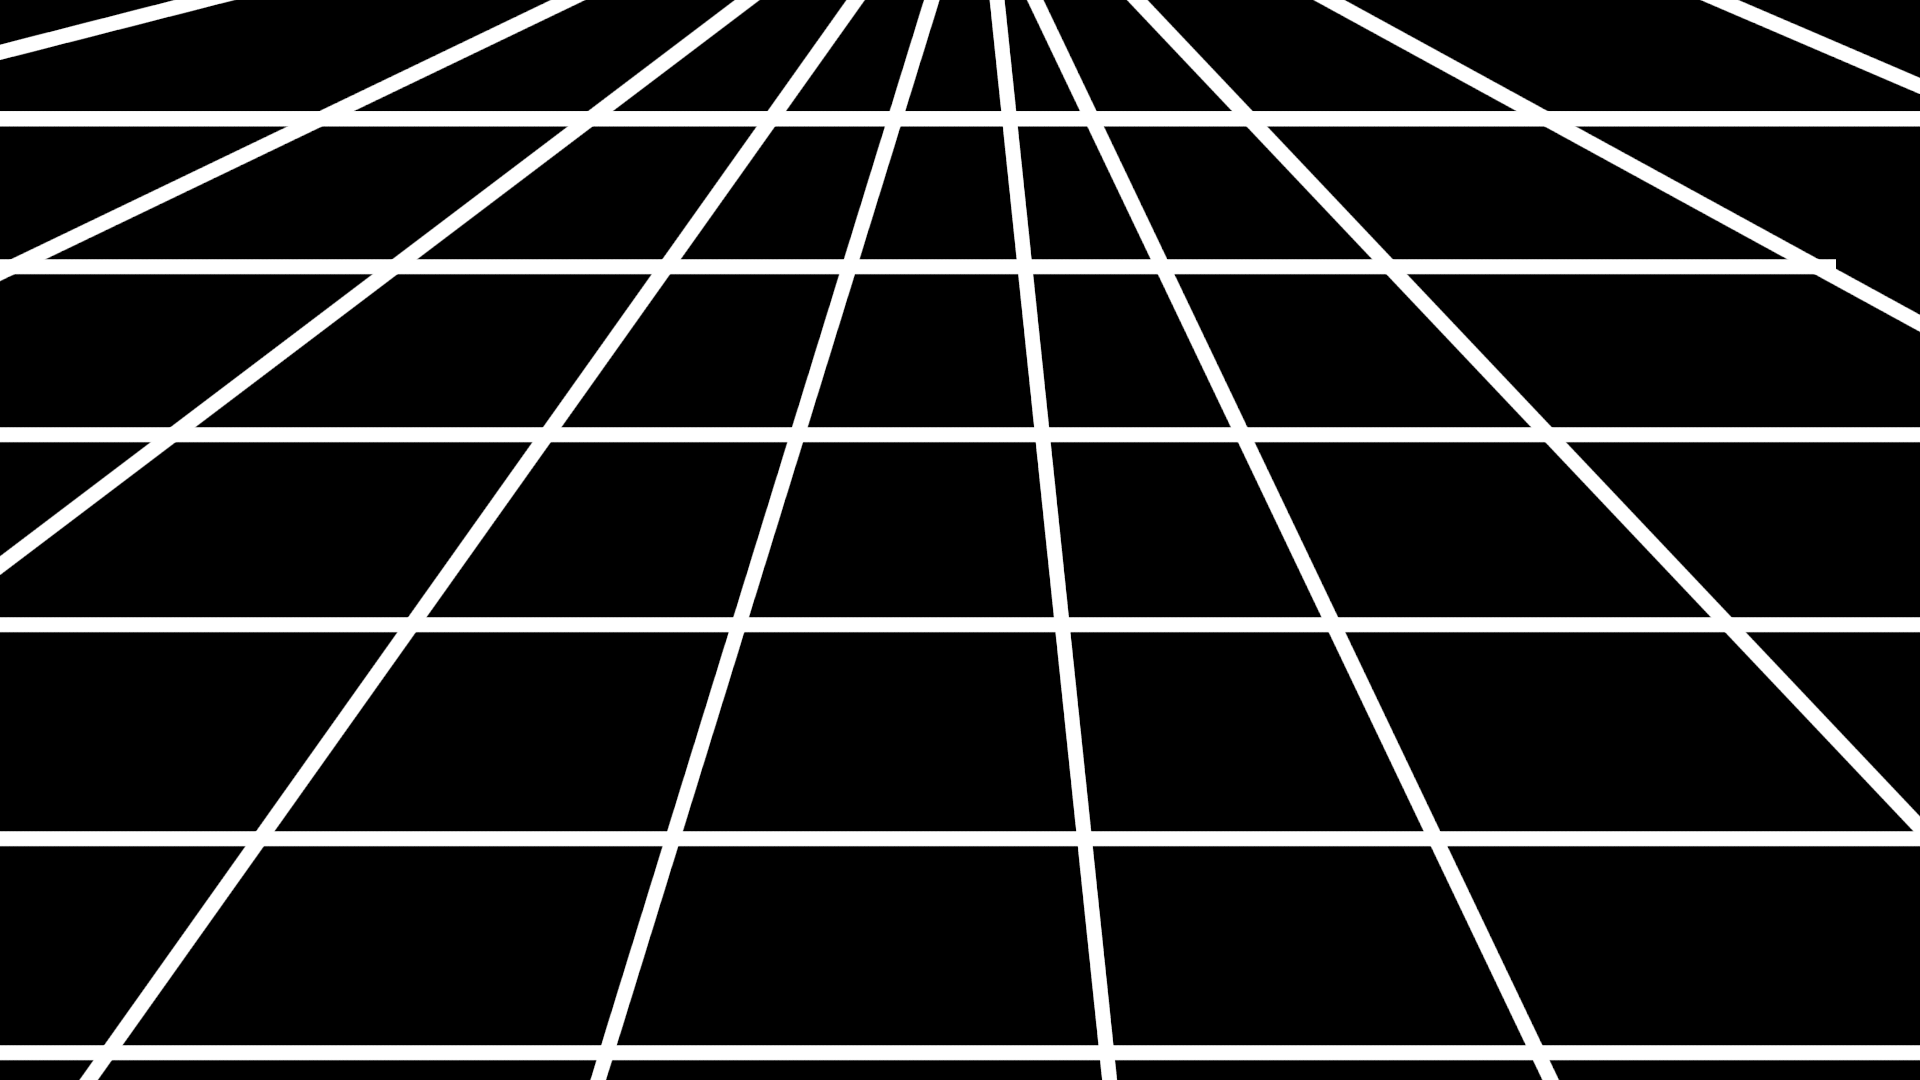
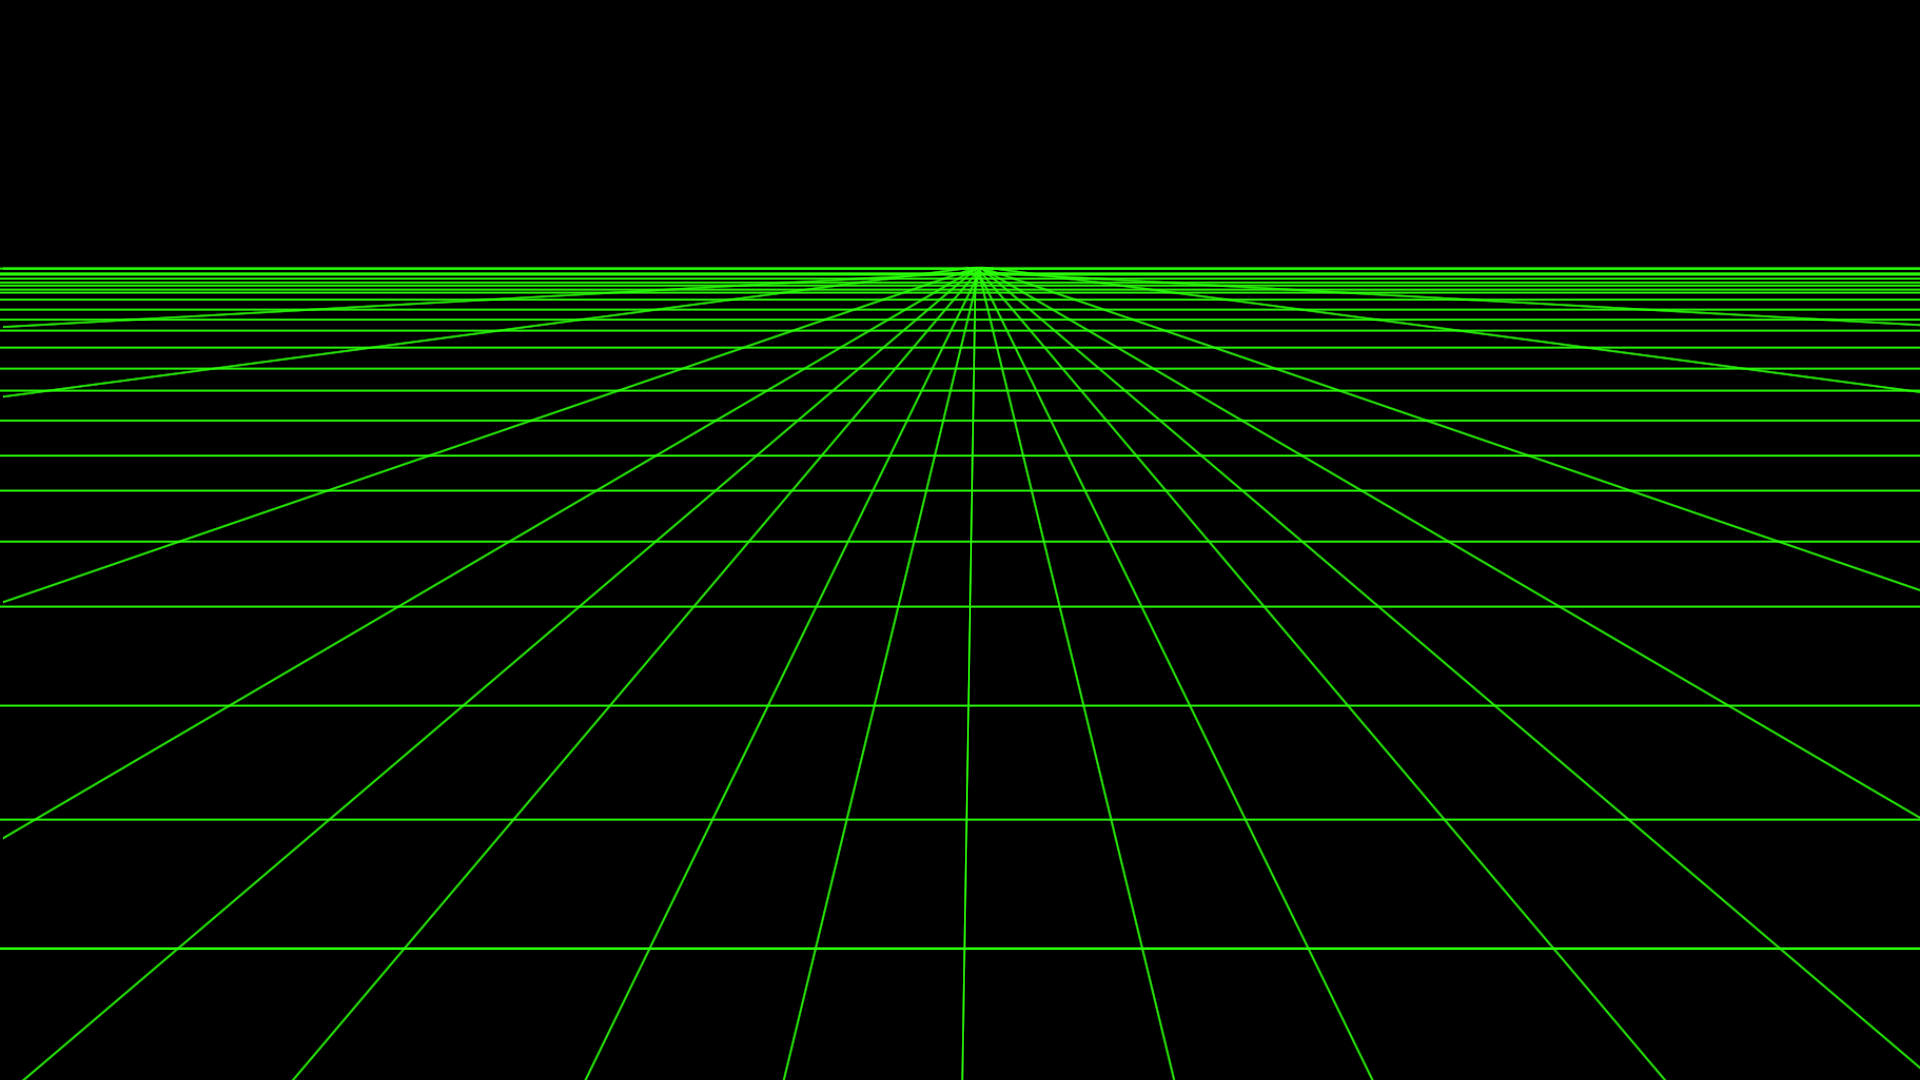
stuff

diff --git a/src/popup.ts b/src/popup.ts
@@ -1,8 +1,10 @@
 import { pageOffsetY, screenHeight, screenWidth } from "./constants";
-import { obstacles } from "./game";
+import { obstacles, playerData } from "./game";
 
 export const tickers = new Set<(delta: number) => void>();
 export const waiters = new Set<{ time: number; cb: () => void }>();
+
+let timeT = Date.now();
 
 export const wait = (time: number) => new Promise(res => waiters.add({ time: Date.now() + time, cb: () => res(null) }));
 
@@ -26,7 +28,7 @@ export const popupManager = {
 		return new Promise(res => {
 			/*if (popup.win.document.readyState == "complete") res(popup);
 			else popup.win.addEventListener("load", () => res(popup));*/
-			res(popup)
+			res(popup);
 		});
 	},
 	destroy(popup: Popup) {
@@ -44,10 +46,12 @@ let lastTick = Date.now();
 
 const globalTicker = () => {
 	const delta = Date.now() - lastTick;
+	timeT += delta;
 	if (delta < 50) return;
 	lastTick = Date.now();
 	for (const ticker of tickers) ticker(delta);
 	for (const popup of popupManager.popups) popup.runTick(delta);
+	if (playerData.health <= 0) return;
 	for (const waiter of waiters)
 		if (Date.now() > waiter.time) {
 			waiter.cb();
@@ -58,7 +62,11 @@ export const setup = () => {
 	setInterval(() => globalTicker(), 50);
 };
 const createPopup = (x: number, y: number, width: number, height: number) => {
-	const win = open("about:blank", "_blank", `popup,toolbar=no,menubar=no,left=${x},top=${y},width=${width},height=${height}`);
+	const win = open(
+		"about:blank",
+		"_blank",
+		`popup,toolbar=no,resizable=no,resizeable=no,resize=no,menubar=no,left=${x},top=${y},width=${width},height=${height}`
+	);
 	if (!win) throw new Error("Popups not allowed");
 	win.document.documentElement.innerHTML = `
 	<body?></body?>`;
@@ -100,12 +108,32 @@ export class Popup {
 		this.setupWindow();
 	}
 	obstacle() {
+		const makeAd = () => {
+			const ads = [...document.getElementsByClassName("ad")] as HTMLTemplateElement[];
+			this.win.document.body.append(ads[Math.floor(Math.random() * ads.length)].content.cloneNode(true));
+			const colors = ["red", "yellow", "blue", "green", "purple", "white", "black"];
+			const first = colors[Math.floor(Math.random() * colors.length)];
+			const second = colors.filter(x => x !== first)[Math.floor(Math.random() * (colors.length - 1))];
+			this.win.document.body.style.color = first;
+			this.win.document.body.style.backgroundColor = second;
+			this.win.document.body.style.fontFamily = "sans-serif";
+			this.win.document.body.style.fontSize = "1.2em";
+			const style = document.createElement("style");
+			style.innerHTML = "img { width: 100vw; height: auto }";
+			this.win.document.head.appendChild(style);
+		};
+		const old = this.#onSetup;
+		this.#onSetup = () => {
+			old?.();
+			makeAd();
+		};
+		if (this.win.document.readyState === "complete") makeAd();
 		obstacles.add(this);
 		return this;
 	}
 	setup(cb: (popup: Popup) => void) {
 		this.#onSetup = cb.bind(this, this);
-		cb(this);
+		if (this.win.document.readyState === "complete") cb(this);
 		return this;
 	}
 	tick(cb: (popup: Popup, delta: number) => void) {
@@ -126,14 +154,18 @@ export class Popup {
 			this.win = cached;
 		} else this.win = createPopup(this.#x, this.#y, this.#width, this.#height);
 		this.interval = this.win.setInterval(() => globalTicker(), 50);
-		this.win.document.body.style.margin = "0";
-		this.win.document.body.style.padding = "0";
-		if (this.options.showBackground) {
-			this.win.document.body.style.backgroundImage = `url("/img/background.png")`;
-			this.win.document.body.style.backgroundSize = `${screenWidth}px ${screenHeight}px`;
-			this.win.document.body.style.backgroundRepeat = `no-repeat`;
-			console.log(this.win.document.documentElement.innerHTML)
-		}
+		this.win.onload = () => {
+			this.#onSetup?.();
+			this.win.document.body.style.margin = "0";
+			this.win.document.body.style.padding = "0";
+			if (this.options.showBackground) {
+				this.win.document.body.style.backgroundImage = `url("/img/background.png")`;
+				this.win.document.body.style.backgroundSize = `${screenWidth}px ${screenHeight}px`;
+				this.win.document.body.style.backgroundRepeat = `no-repeat`;
+				console.log(this.win.document.documentElement.innerHTML);
+			}
+		};
+		if (this.win.document.readyState === "complete") this.win.onload(null as any);
 		createTempTicker((t, stop) => {
 			this.move(this.#x, this.#y);
 			if (t > 200) stop();
@@ -189,7 +221,7 @@ export class Popup {
 		}
 		this.#onTick?.(delta);
 		if (this.options.showBackground) {
-			this.win.document.body.style.backgroundPosition = `${-this.x - screenX - 7}px ${-this.y - pageOffsetY}px`;
+			this.win.document.body.style.backgroundPosition = `${-this.x - screenX - 13}px ${-this.y - pageOffsetY + 42}px`;
 		}
 		if (this.options.fixedPosition) {
 			if (Math.abs(this.win.screenX - this.#x) > 2 || Math.abs(this.win.screenY - this.#y) > 2)

diff --git a/src/battle/battle1.ts b/src/battle/battle1.ts
@@ -2,32 +2,38 @@ import { createTempTicker, popupManager, wait } from "../popup";
 import { lerp } from "../util";
 
 export const startBattle1 = async () => {
+	await sweepAttack();
+	await wait(500);
+	await spikesAttack();
+	await wait(500);
 	await horAttack();
 	await wait(500);
 	await vertAttack();
 };
 
-const horAttack = async() => {
+const horAttack = async () => {
 	const hors = await Promise.all(
 		[...Array(2)].map(async (_, i) =>
-			(await popupManager.create(0, screen.height / 2 * i, 100, screen.height / 2, { showBackground: false })).obstacle()
+			(
+				await popupManager.create(0, (screen.height / 2) * i, 100, screen.height / 2, { showBackground: false })
+			).obstacle()
 		)
 	);
-	for (let i = 0; i < 4; i++) {
+	await wait(500);
+	for (let i = 0; i < 6; i++) {
 		await createTempTicker((t, stop) => {
 			for (let j = 0; j < 2; j++) {
 				hors[j].width = lerp(t / 1000, hors[j].width, i % 2 === j ? screen.width : 10);
 			}
 			if (t > 1000) stop();
 		});
+		await createTempTicker((t, stop) => {
+			for (let j = 0; j < 2; j++) hors[j].width = lerp(t / 1000, hors[j].width, 100);
+			if (t > 1000) stop();
+		});
 	}
-	await createTempTicker((t, stop) => {
-		for (let j = 0; j < 2; j++)
-			hors[j].width = lerp(t / 1000, hors[j].width, 100)
-		if (t > 1000) stop();
-	});
 	for (const j of hors) popupManager.destroy(j);
-}
+};
 
 const vertAttack = async () => {
 	const verts = await Promise.all(
@@ -35,6 +41,7 @@ const vertAttack = async () => {
 			(await popupManager.create((screen.width / 4) * i, 0, screen.width / 4, 100, { showBackground: false })).obstacle()
 		)
 	);
+	await wait(500);
 	let lastTarget = -1;
 	for (let i = 0; i < 10; i++) {
 		let target = -1;
@@ -49,9 +56,64 @@ const vertAttack = async () => {
 		});
 	}
 	await createTempTicker((t, stop) => {
-		for (let j = 0; j < 4; j++)
-			verts[j].height = lerp(t / 1000, verts[j].height, 100);
+		for (let j = 0; j < 4; j++) verts[j].height = lerp(t / 1000, verts[j].height, 100);
 		if (t > 1000) stop();
 	});
 	for (const vert of verts) popupManager.destroy(vert);
+};
+
+const spikesAttack = async () => {
+	const left = (await popupManager.create(0, 0, screen.width / 2, 100, { showBackground: false })).obstacle();
+	const right = (
+		await popupManager.create(screen.width / 2, screen.height - 100, screen.width / 2, 100, { showBackground: false })
+	).obstacle();
+	await wait(500);
+	for (let i = 0; i < 3; i++) {
+		await createTempTicker((t, stop) => {
+			left.y = lerp(t / 1500, 0, screen.height - 100);
+			right.y = lerp(t / 1500, screen.height - 100, 0);
+			if (t > 1500) stop();
+		});
+		await createTempTicker((t, stop) => {
+			right.y = lerp(t / 1500, 0, screen.height - 100);
+			left.y = lerp(t / 1500, screen.height - 100, 0);
+			if (t > 1500) stop();
+		});
+	}
+
+	popupManager.destroy(left);
+	popupManager.destroy(right);
+};
+
+const sweepAttack = async () => {
+	const topLeft = (await popupManager.create(0, 0, screen.width / 2, screen.height / 2, { showBackground: false })).obstacle();
+	const bottomRight = (
+		await popupManager.create(screen.width / 2, screen.height / 2, screen.width / 2, screen.height / 2, { showBackground: false })
+	).obstacle();
+	await wait(500);
+	for (let i = 0; i < 2; i++) {
+		await createTempTicker((t, stop) => {
+			topLeft.x = lerp(t / 1000, 0, screen.width / 2,)
+			bottomRight.x = lerp(t / 1000, screen.width / 2, 0)
+			if (t > 1000) stop();
+		});
+		await createTempTicker((t, stop) => {
+			topLeft.y = lerp(t / 1000, 0, screen.height / 2)
+			bottomRight.y = lerp(t / 1000, screen.height / 2, 0)
+			if (t > 1000) stop();
+		});
+		await createTempTicker((t, stop) => {
+			bottomRight.x = lerp(t / 1000, 0, screen.width / 2,)
+			topLeft.x = lerp(t / 1000, screen.width / 2, 0)
+			if (t > 1000) stop();
+		});
+		await createTempTicker((t, stop) => {
+			bottomRight.y = lerp(t / 1000, 0, screen.height / 2)
+			topLeft.y = lerp(t / 1000, screen.height / 2, 0)
+			if (t > 1000) stop();
+		});
+	}
+
+	popupManager.destroy(topLeft);
+	popupManager.destroy(bottomRight);
 };

diff --git a/index.html b/index.html
@@ -9,9 +9,29 @@
 	<body>
 		<div id="app"></div>
 		<script type="module" src="/src/main.ts"></script>
-		<button id="start">Start</button>
-		<button id="end">End</button>
-		<button id="b1">1</button>
-		<button id="cache">cache</button>
+		<h1>Adscape</h1>
+		<div class="main">
+			<button id="b1">Play</button>
+			<button id="cache">Preload Windows</button>
+			<button id="end">Panic</button>
+		</div>
+		<template class="ad">
+			<h1>Free Car!</h1>
+			<p>You are our 10000th visitor!! Click <a href="/">HERE</a> for a free car!</p>
+			<img
+				src="https://upload.wikimedia.org/wikipedia/commons/thumb/a/a4/2019_Toyota_Corolla_Icon_Tech_VVT-i_Hybrid_1.8.jpg/1200px-2019_Toyota_Corolla_Icon_Tech_VVT-i_Hybrid_1.8.jpg"
+			/>
+		</template>
+		<template class="ad">
+			<h1>Why YOU should download our APP!</h1>
+			<p>
+				🌟 Hey there! 🌟 You won’t believe the incredible opportunity waiting for you! Our revolutionary app is taking
+				the world by storm, and you’re one of the lucky few chosen to access it early! 🎉 Just download it now to unlock
+				exclusive features and benefits that others can only dream about. Trust us, this is your chance to be part of
+				something BIG! Don’t miss out—tap the link below and join the millions who are already raving about their
+				success! 🚀 Remember, this offer is limited, so act fast! Your future self will thank you! 💰✨
+			</p>
+			<img src="https://i.redd.it/hlz49ies6m841.png" />
+		</template>
 	</body>
 </html>

diff --git a/src/battle/ui.ts b/src/battle/ui.ts
@@ -5,12 +5,12 @@ import { collides } from "../util";
 export const setupUI = async() => {
 	const playerImage = document.createElement("img");
 	playerImage.src = `/img/player.png`;
-	playerImage.width = 170;
-	playerImage.height = 170;
+	playerImage.width = 180;
+	playerImage.height = 180;
 	let lastCollision = Date.now();
 	let shaking = 0;
 	const player = (await popupManager
-		.create(screen.width / 2 - 185 / 2, screen.height / 2 - 250 / 2, 185, 250, { fixedPosition: false }))
+		.create(screen.width / 2 - 200 / 2, screen.height / 2 - 270 / 2, 200, 260, { fixedPosition: false }))
 		.setup(popup => popup.win.document.body.append(playerImage))
 		.tick(async popup => {
 			if (playerData.health <= 0) {
@@ -28,7 +28,7 @@ export const setupUI = async() => {
 						location.reload();
 					});
 			}
-			if (shaking > 0) {
+			if (false && shaking > 0) {
 				shaking--;
 				popup.move(popup.x + (shaking % 2 === 0 ? -10 : 10), popup.y);
 			}

diff --git a/src/style.scss b/src/style.scss
@@ -6,4 +6,37 @@ body {
 	margin: 0;
 	background-color: #000000;
 	background-image: url("/img/background.png");
+	color: white;
+	padding: 1em;
+}
+h1 {
+	text-align: center;
+	font-size: 8em;
+	font-family: Bahnschrift, "DIN Alternate", "Franklin Gothic Medium", "Nimbus Sans Narrow", sans-serif-condensed, sans-serif;
+	text-shadow: 16px 16px 0px black;
+	margin: 0;
+}
+.main {
+	display: flex;
+	flex-direction: column;
+	align-items: center;
+	gap: 1em;
+	margin-top: 1em;
+}
+button {
+	border: 5px currentColor solid;
+	background-color: transparent;
+	font-size: 3.4em;
+	padding: 0.1em 0.5em;
+	color: white;
+	cursor: pointer;
+	transition: transform 0.1s;
+	font-weight: bold;
+	font-family: Avenir, Montserrat, Corbel, "URW Gothic", source-sans-pro, sans-serif;
+	&:hover {
+		transform: rotate(2deg);
+	}
+	&:active {
+		color: #999999;
+	}
 }

diff --git a/src/main.ts b/src/main.ts
@@ -9,7 +9,7 @@ import { collides } from "./util";
 setup();
 
 window.addEventListener("beforeunload", event => {
-	event.preventDefault();
+	//event.preventDefault();
 });
 
 tickers.add(() => {
@@ -38,10 +38,10 @@ document.getElementById("b1")?.addEventListener("click", async () => {
 	await wait(2000);
 	await startBattle1();
 });
-document.getElementById("start")!.addEventListener("click", async () => {
+document.getElementById("start")?.addEventListener("click", async () => {
 	await setupUI();
 });
 
-document.getElementById("cache")!.addEventListener("click", async () => {
+document.getElementById("cache")?.addEventListener("click", async () => {
 	createCache();
 });

diff --git a/src/constants.ts b/src/constants.ts
@@ -1,3 +1,3 @@
-export const screenWidth = screen.width * devicePixelRatio;
-export const screenHeight = screen.height * devicePixelRatio;
+export const screenWidth = screen.width;
+export const screenHeight = screen.height;
 export const pageOffsetY = outerHeight - innerHeight + screenY;
